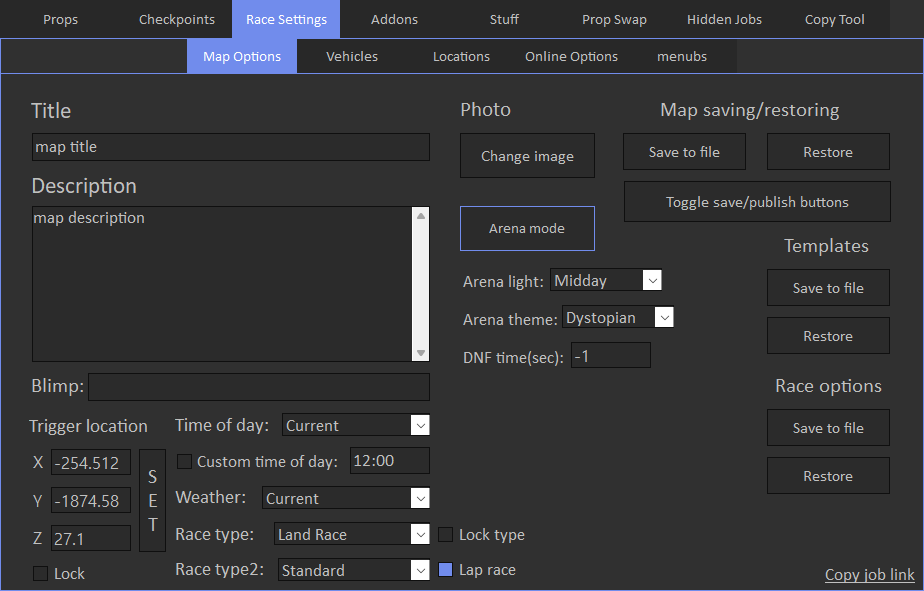
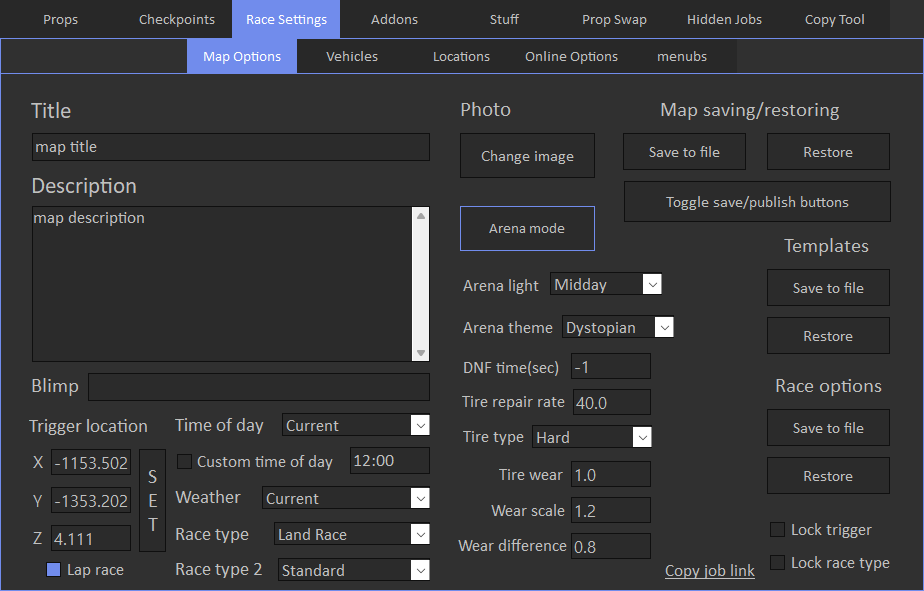
update map options & stuff tabs

diff --git a/docs/stuff/overview.md b/docs/stuff/overview.md
@@ -31,3 +31,5 @@ Timer is needed because there may be some glitches in creator if small grid type
 When 'Always on top' is checked, tool stays on top above other processes.
 
 If 'Auto-enable Dev Mode' checkbox is checked, Dev Mode will be automatically enabled on tool startup. Same for Precise Templates.
+
+'Save logs' saves log files in zip archive, for example if you have some errors, you can upload this file on the discord server for investigation.

diff --git a/docs/race-settings/map-options/overview.md b/docs/race-settings/map-options/overview.md
@@ -10,6 +10,8 @@ Map options tab allows to view and modify global settings of the map.
 
 'DNF time(sec)' sets race end time in seconds after half of the players finished the race. -1 means use default value, which is 30 seconds.
 
+Tire wear settings are used only for Open Wheel race types.
+
 You can also save and restore whole map with all the settings.
 
 There are 2 types of map save files:
